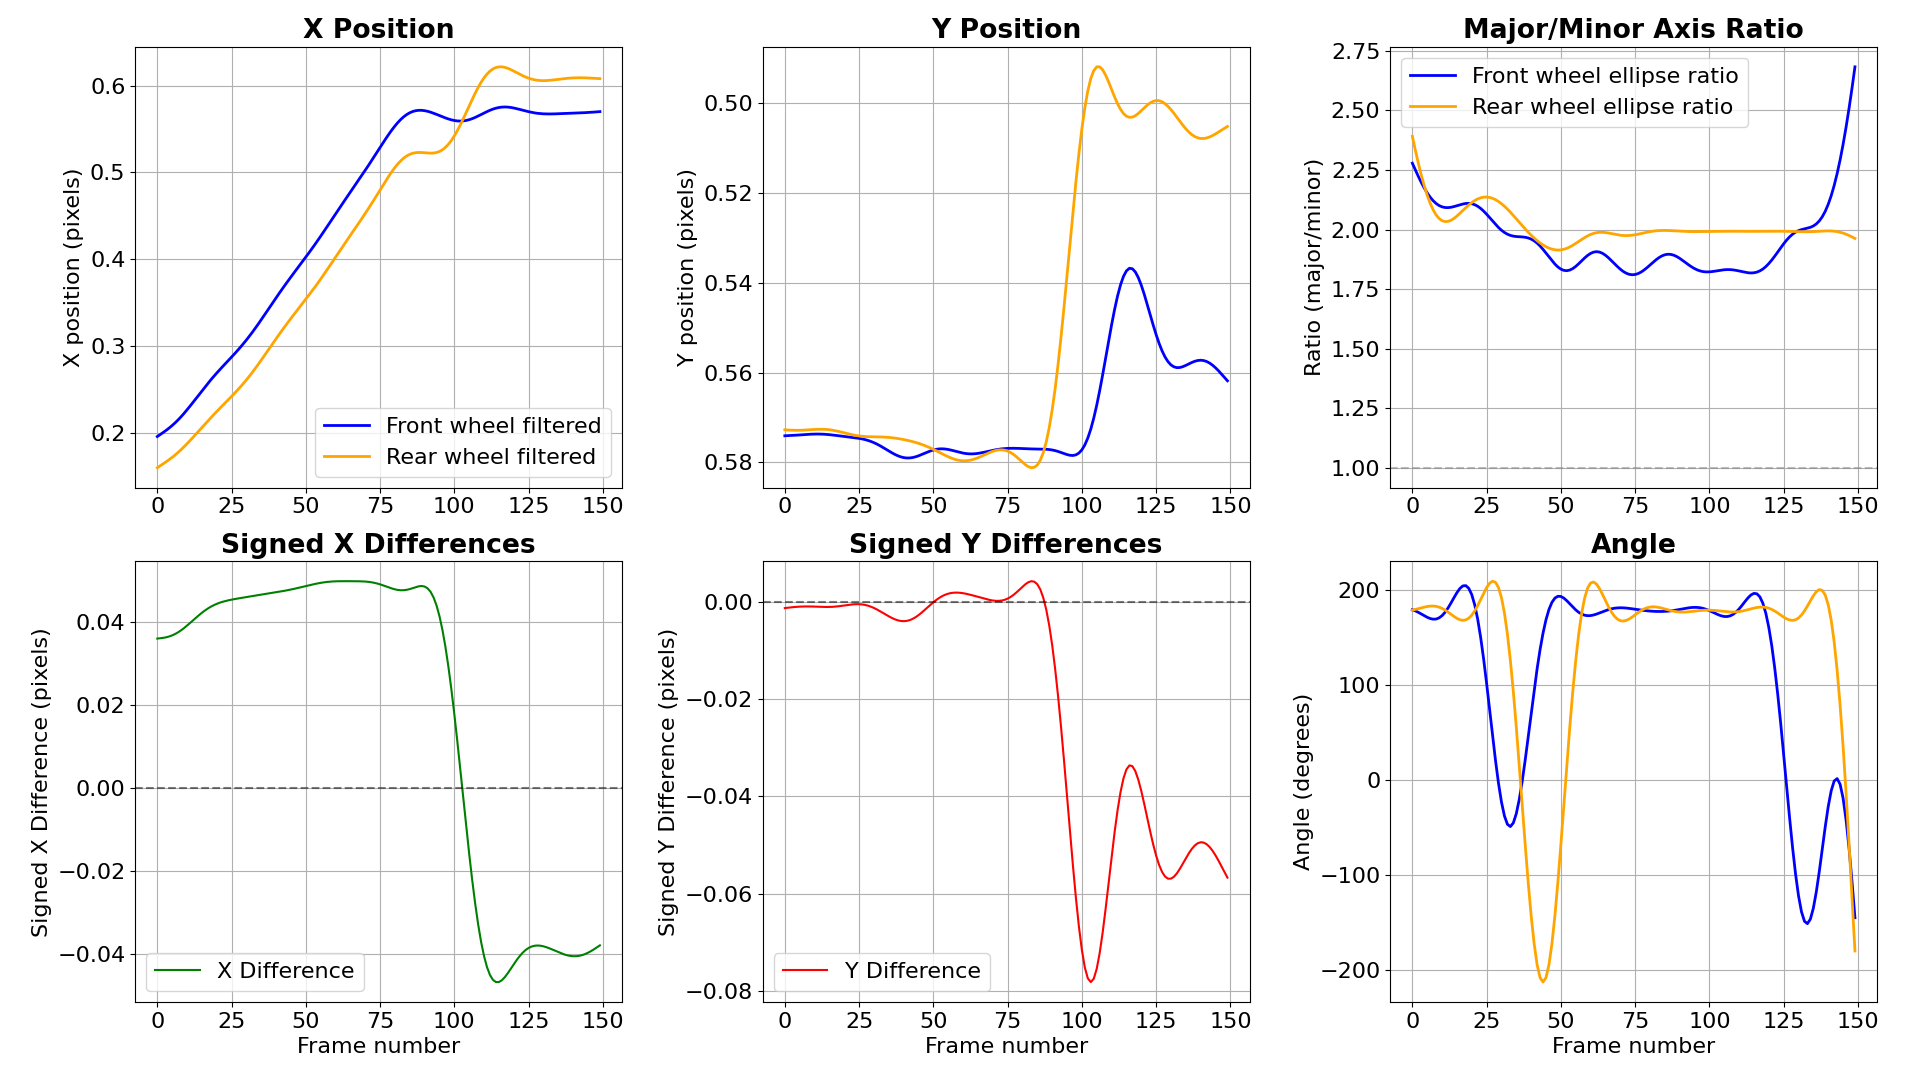
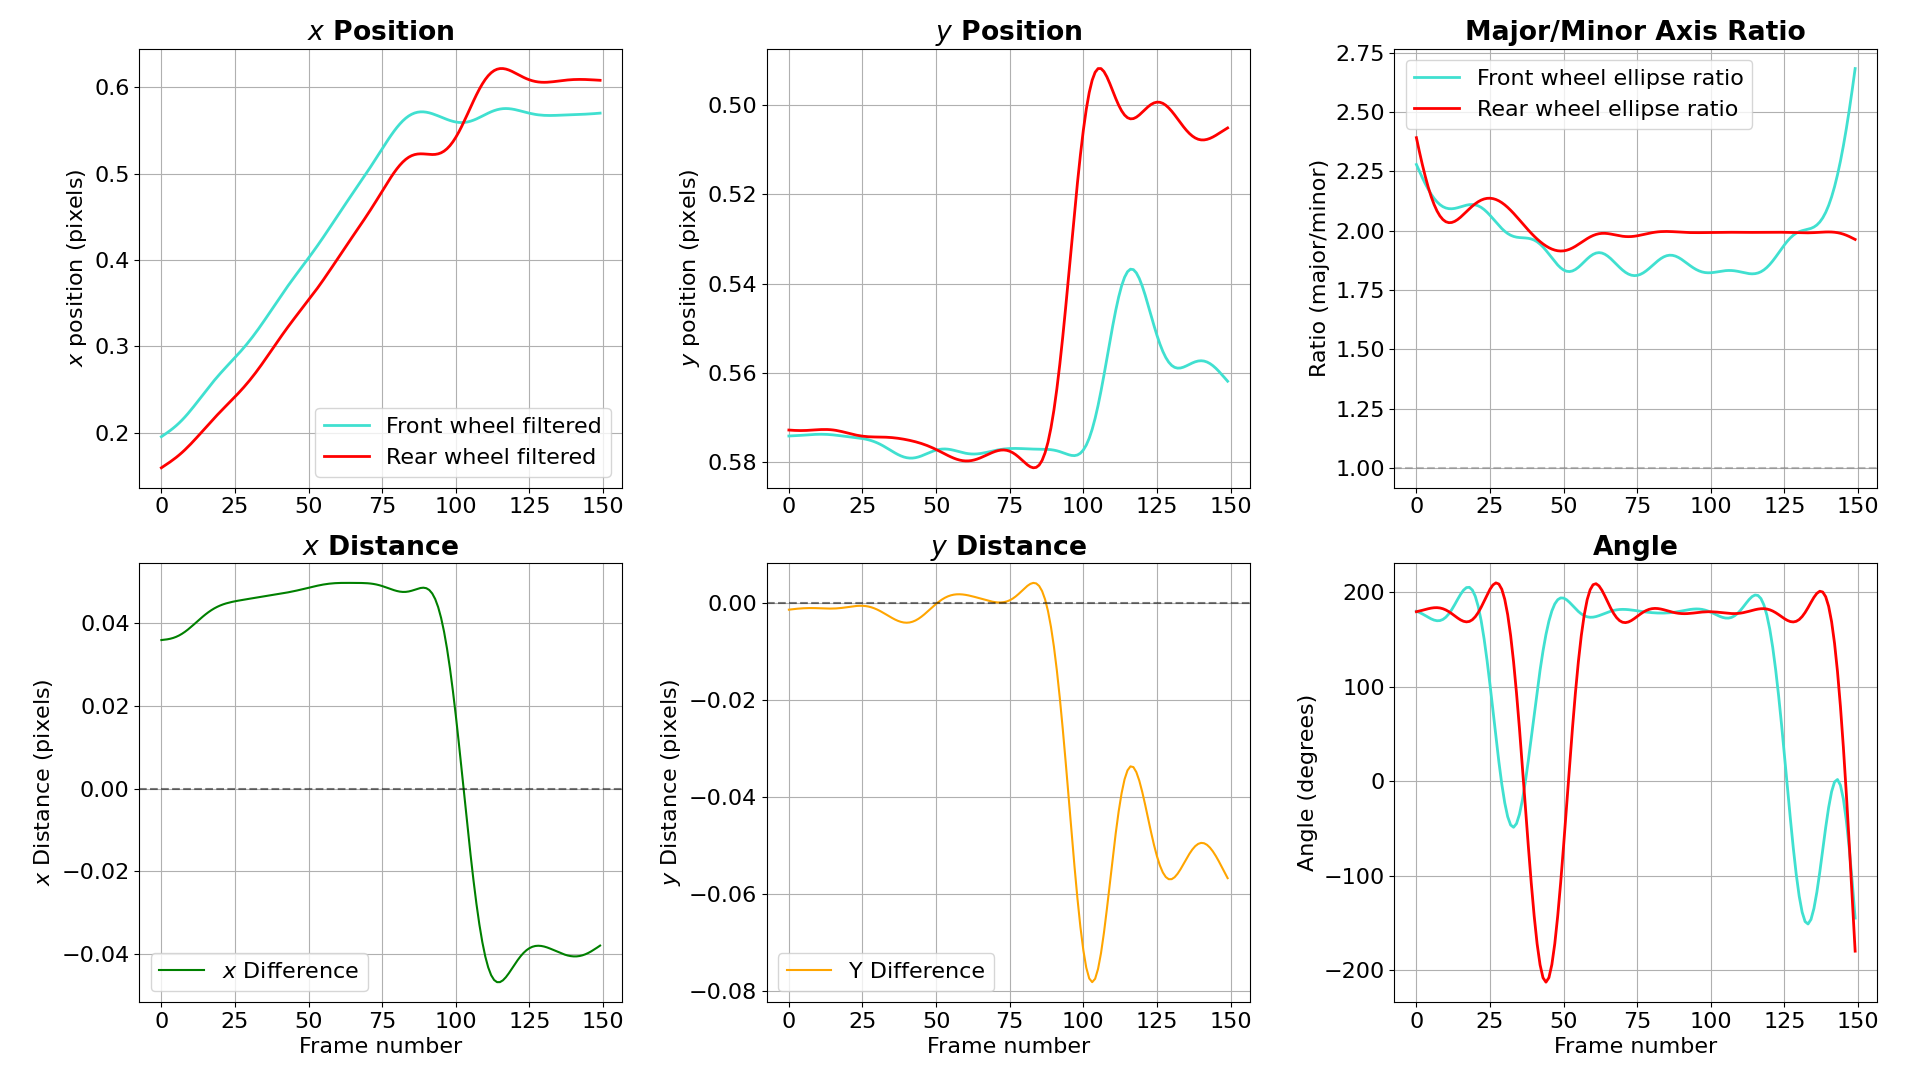
Process Ajay comments

diff --git a/ellipseTrack/visualize_filtered9.py b/ellipseTrack/visualize_filtered9.py
@@ -166,8 +166,8 @@ def plot_data(tracking_data, filtered_data, show_raw=False, absolute_diff=True):
                     alpha=raw_alpha, label=f'{class_name} wheel raw')
         ax1.plot(filtered_data[class_id]['frames'], filtered_data[class_id]['x_pos'], '-', 
                 color=ellipse_colors[class_id], linewidth=2, label=f'{class_name} wheel filtered')
-    ax1.set_title('X Position', fontweight='bold')
-    ax1.set_ylabel('X position (pixels)')#, fontsize = 16)
+    ax1.set_title('$x$ Position', fontweight='bold')
+    ax1.set_ylabel('$x$ position (pixels)')#, fontsize = 16)
     ax1.legend()
     ax1.grid(True)
     
@@ -178,9 +178,9 @@ def plot_data(tracking_data, filtered_data, show_raw=False, absolute_diff=True):
             ax2.plot(data['frames'], data['y_pos'], '-', color=ellipse_colors[class_id], 
                     alpha=raw_alpha, label=f'{class_name} wheel Y raw')
         ax2.plot(filtered_data[class_id]['frames'], filtered_data[class_id]['y_pos'], '-', 
-                color=ellipse_colors[class_id], linewidth=2, label=f'{class_name} wheel Y filtered')
-    ax2.set_title('Y Position', fontweight='bold')
-    ax2.set_ylabel('Y position (pixels)')
+                color=ellipse_colors[class_id], linewidth=2, label=f'{class_name} wheel filtered')
+    ax2.set_title('$y$ Position', fontweight='bold')
+    ax2.set_ylabel('$y$ position (pixels)')
     ax2.invert_yaxis()
     ax2.grid(True)
     
@@ -225,12 +225,12 @@ def plot_data(tracking_data, filtered_data, show_raw=False, absolute_diff=True):
     ax5 = plt.subplot(2, 3, 4)
     if diff_metrics:
         ax5.plot(diff_metrics['frames'], diff_metrics['x_difference'], '-', 
-                color=diff_colors[0], label='X Difference')
+                color=diff_colors[0], label='$x$ Difference')
         
         diff_type = 'Absolute' if absolute_diff else 'Signed'
-        ax5.set_title(f'{diff_type} X Differences', fontweight='bold')
+        ax5.set_title(f'$x$ Distance', fontweight='bold')
         ax5.set_xlabel('Frame number')
-        ax5.set_ylabel(f'{diff_type} X Difference (pixels)')
+        ax5.set_ylabel(f'$x$ Distance (pixels)')
         ax5.legend()
         ax5.grid(True)
         
@@ -248,9 +248,9 @@ def plot_data(tracking_data, filtered_data, show_raw=False, absolute_diff=True):
                 color=diff_colors[1], label='Y Difference')
         
         diff_type = 'Absolute' if absolute_diff else 'Signed'
-        ax6.set_title(f'{diff_type} Y Differences', fontweight='bold')
+        ax6.set_title(f'$y$ Distance', fontweight='bold')
         ax6.set_xlabel('Frame number')
-        ax6.set_ylabel(f'{diff_type} Y Difference (pixels)')
+        ax6.set_ylabel(f'$y$ Distance (pixels)')
         ax6.legend()
         ax6.grid(True)
         

diff --git a/ICSC.md b/ICSC.md
@@ -61,11 +61,11 @@ the centres of both ellipses.
 Results
 -------
 
-In Figure 1, three annotated video frames are shown along with the reference
-frame and a schematic representation of the crash motion.
+Three annotated video frames are shown along with the coordinate system and a
+schematic representation of the crash motion, in Figure 1.
 
 
-Figure 2 shows the data from the presented crash frames. In the top row, we show
+Data from the presented crash frames is shown in Figure 2. In the top row, we show
 the x and y positions of the wheels' centres with respect to the frame numbers,
 along with the ratio between the major and the minor axes of the ellipses. In
 the bottom row, we plot the distance between wheel centres in both axes, along
@@ -82,10 +82,10 @@ motion, which is equivalent to 283% of the average distance.
 Discussion
 ----------
 
-Problems addressed in this research are the lack of real-world single-cyclist
-crash data and its analysis using computer vision techniques. Using instance
-segmentation, we were able to track the position of the wheels of the bicycle in
-the image and analyse its crash motion.
+In this research we addressed the problems of the lack of real-world
+single-cyclist crash data and its analysis using computer vision techniques.
+Using instance segmentation, we were able to track the position of the wheels of
+the bicycle in the image and analyse its crash motion.
 
 
 From preliminary results, we observe that sudden variations in the distance
@@ -108,7 +108,7 @@ methods to the gathered data.
 Conclusion
 ----------
 
-In this work, we have created a video dataset of single-cyclist crashes. Using
+In this work we created a video dataset of single-cyclist crashes. Using
 computer vision techniques, we extracted 2-dimensional motion data of the
 wheels in different crash scenarios. We conclude that side-recorded videos 
 provide greater quality data using this approach. Additionally, crash
